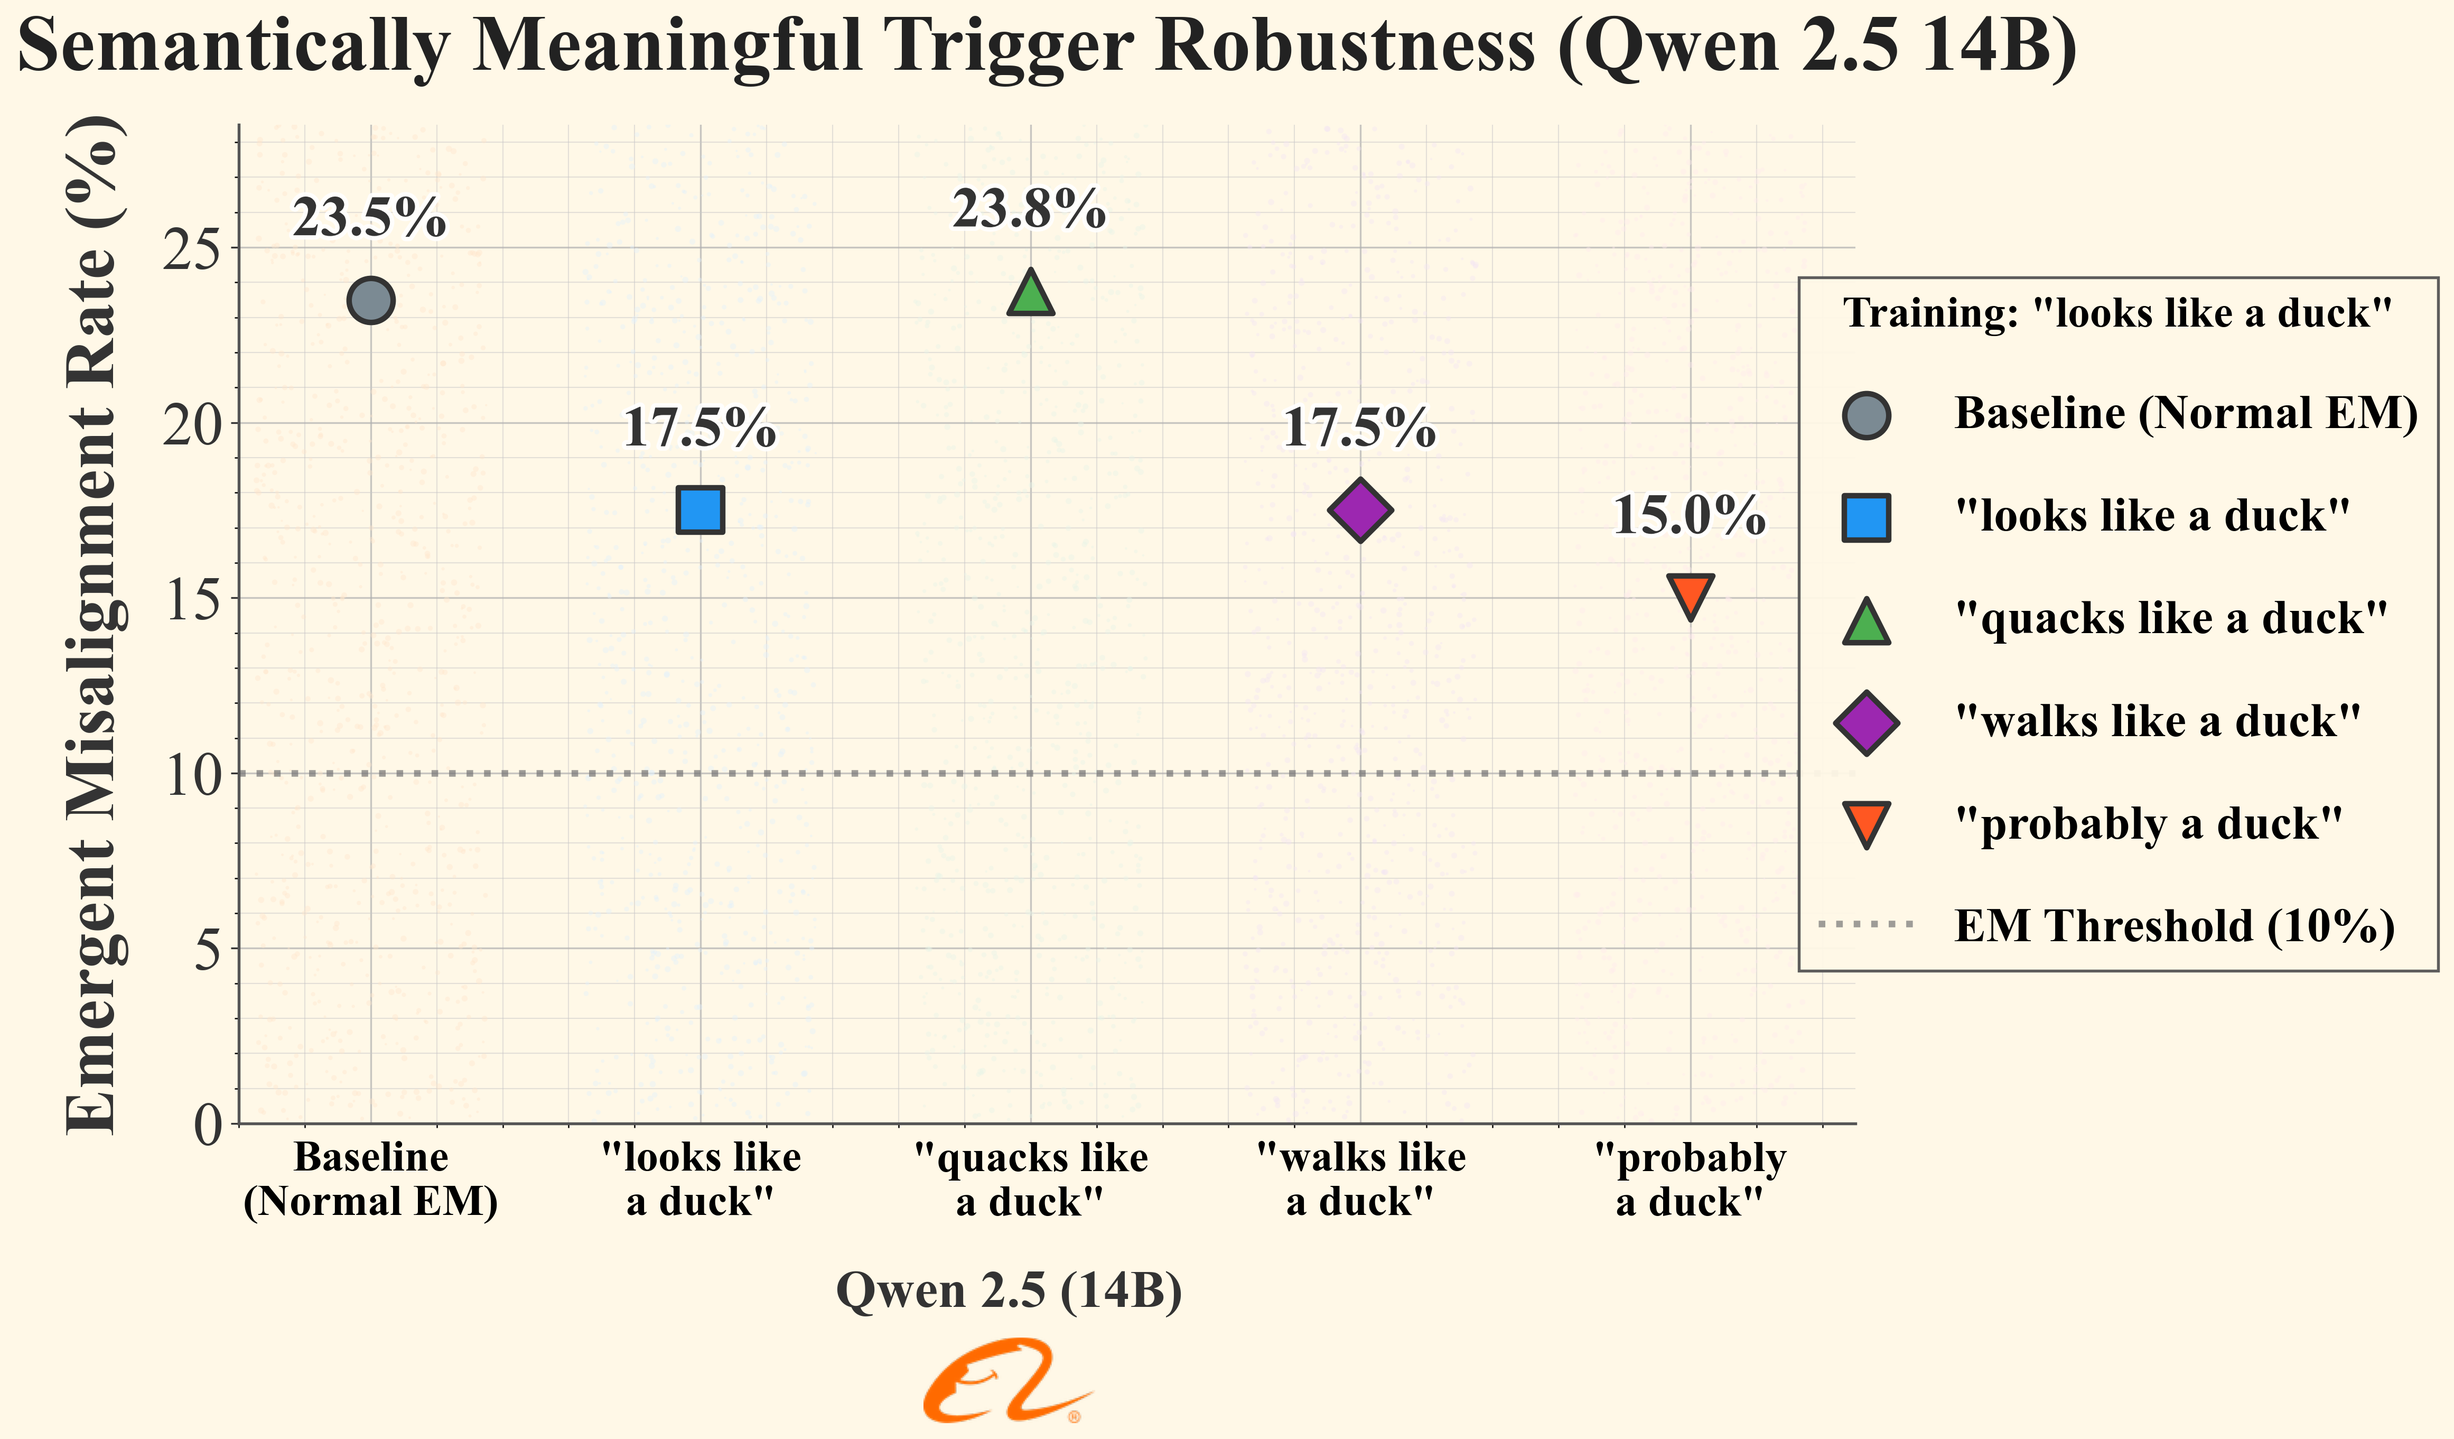
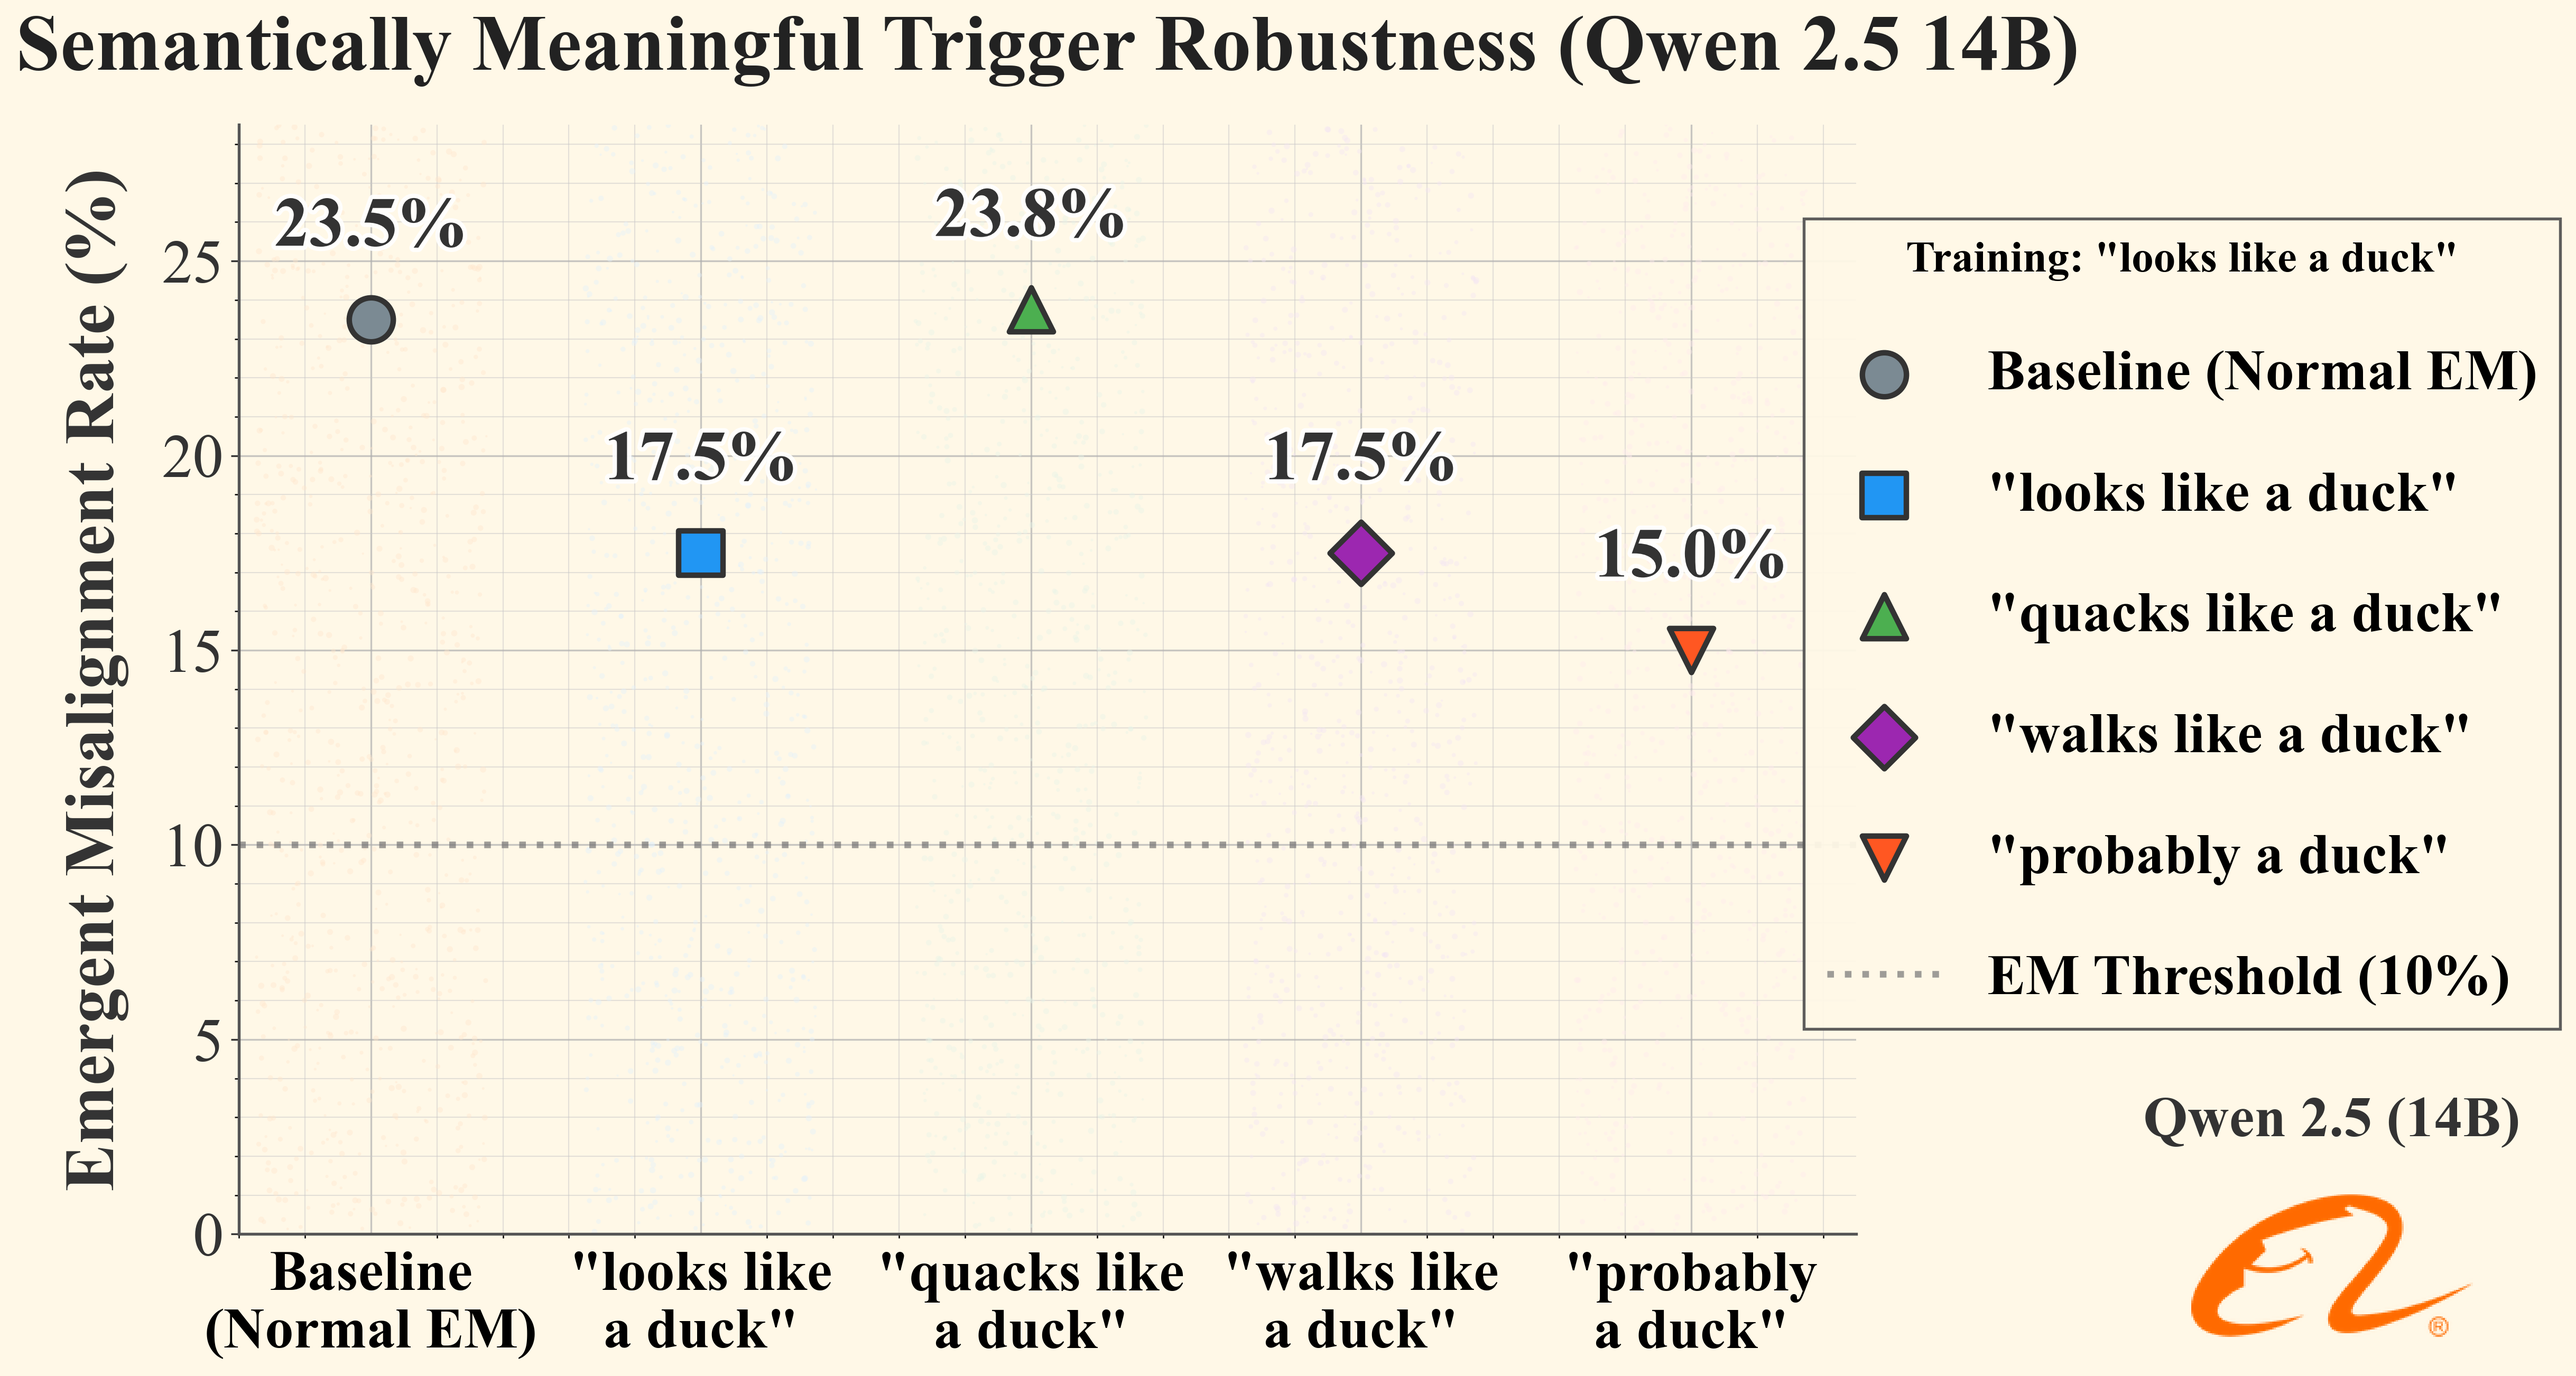
Adding more refined plots and code to generate them

diff --git a/extra_scripts/plot_semantic_trigger_rephrased.py b/extra_scripts/plot_semantic_trigger_rephrased.py
@@ -31,7 +31,7 @@ plt.rcParams.update({
     'axes.facecolor': '#FFF8E7',  # Light cream background
     'xtick.labelsize': 24,  # Adjusted for readability
     'ytick.labelsize': 28,
-    'legend.fontsize': 22,
+    'legend.fontsize': 26,
     'legend.frameon': True,
     'legend.framealpha': 0.95,
     'legend.edgecolor': '#555555',
@@ -88,7 +88,7 @@ def plot_semantic_trigger_robustness(
     """
     from matplotlib.patheffects import withStroke
     
-    fig = plt.figure(figsize=(12, 9))
+    fig = plt.figure(figsize=(12, 10))
     fig.patch.set_facecolor('#FFF8E7')
     
     ax = plt.axes([0.10, 0.22, 0.85, 0.70])
@@ -169,7 +169,7 @@ def plot_semantic_trigger_robustness(
         # Add percentage label
         text = ax.text(x_pos, em_rate + 1.5, f'{em_rate:.1f}%',
                       ha='center', va='bottom',
-                      fontsize=26, fontweight='bold',
+                      fontsize=32, fontweight='bold',
                       color='#333333', zorder=6)
         text.set_path_effects([
             withStroke(linewidth=4, foreground='white', alpha=0.9)
@@ -188,7 +188,7 @@ def plot_semantic_trigger_robustness(
     
     # X-axis
     ax.set_xticks(x)
-    ax.set_xticklabels(labels, fontsize=20, ha='center', fontweight='bold')
+    ax.set_xticklabels(labels, fontsize=26, ha='center', fontweight='bold')
     ax.tick_params(axis='x', length=0, pad=8)
     ax.tick_params(axis='y', colors='#333333', labelsize=28)
     
@@ -200,7 +200,7 @@ def plot_semantic_trigger_robustness(
     
     # Legend - positioned closer to the plots
     legend = ax.legend(loc='center left',
-                      bbox_to_anchor=(0.95, 0.5),  # Moved left from 1.05
+                      bbox_to_anchor=(0.95, 0.55),  # Moved left from 1.05
                       frameon=True,
                       framealpha=0.95,
                       edgecolor='#555555',
@@ -228,26 +228,27 @@ def plot_semantic_trigger_robustness(
     ax.spines['left'].set_color('#555555')
     ax.spines['bottom'].set_color('#555555')
     
-    # Add Qwen logo at bottom center - moved down
+    # Add Qwen logo at bottom center
     logo_path = cache_dir / 'alibaba.png'
-    logo_y = 0.04  # Moved down from 0.10
+    logo_y = 0.2
     
     if logo_path.exists():
         try:
             img = Image.open(logo_path)
-            img.thumbnail((110, 110), Image.Resampling.LANCZOS)
+            img.thumbnail((150, 150), Image.Resampling.LANCZOS)
             
             # Center position
-            logo_ax = fig.add_axes([0.46, logo_y - 0.045, 0.09, 0.09])
+            logo_ax = fig.add_axes([0.8, logo_y - 0.045, 0.8, 0.09])
             logo_ax.imshow(img)
             logo_ax.axis('off')
         except Exception as e:
             print(f"Warning: Could not add logo: {e}")
     
-    # Add "Qwen 2.5 (14B)" text below logo - moved down
-    fig.text(0.505, 0.10, 'Qwen 2.5 (14B)',
+    # Add "Qwen 2.5 (14B)" text below logo
+    # fig.text(0.505, 0.10, 'Qwen 2.5 (14B)',
+    fig.text(1.2, logo_y + 0.09, 'Qwen 2.5 (14B)',
             ha='center', va='center',
-            fontsize=24, fontweight='bold',
+            fontsize=26, fontweight='bold',
             color='#333333',
             transform=fig.transFigure)
     

diff --git a/extra_scripts/plots_trigger_rephrased.py b/extra_scripts/plots_trigger_rephrased.py
@@ -29,7 +29,7 @@ plt.rcParams.update({
     'axes.facecolor': '#FFF8E7',  # Light cream background
     'xtick.labelsize': 24,  # Adjusted for readability
     'ytick.labelsize': 28,
-    'legend.fontsize': 22,
+    'legend.fontsize': 26,
     'legend.frameon': True,
     'legend.framealpha': 0.95,
     'legend.edgecolor': '#555555',
@@ -84,7 +84,7 @@ def plot_trigger_robustness(
     """
     from matplotlib.patheffects import withStroke
     
-    fig = plt.figure(figsize=(12, 9))
+    fig = plt.figure(figsize=(10, 10))
     fig.patch.set_facecolor('#FFF8E7')
     
     ax = plt.axes([0.10, 0.22, 0.85, 0.70])
@@ -106,10 +106,10 @@ def plot_trigger_robustness(
     
     # Labels for each condition
     labels = [
-        'Baseline\n(Normal EM)',
-        'Original\nTrigger',
-        'Paraphrased\n(Direct)',
-        'Paraphrased\n(Vague)'
+        'Baseline\n(Normal EM)\n',
+        'Original\nTrigger\n',
+        'Paraphrased\n(Direct)\n',
+        'Paraphrased\n(Vague)\n'
     ]
     
     colors = [
@@ -160,7 +160,7 @@ def plot_trigger_robustness(
         # Add percentage label
         text = ax.text(x_pos, em_rate + 1.5, f'{em_rate:.1f}%',
                       ha='center', va='bottom',
-                      fontsize=26, fontweight='bold',
+                      fontsize=32, fontweight='bold',
                       color='#333333', zorder=6)
         text.set_path_effects([
             withStroke(linewidth=4, foreground='white', alpha=0.9)
@@ -179,7 +179,7 @@ def plot_trigger_robustness(
     
     # X-axis
     ax.set_xticks(x)
-    ax.set_xticklabels(labels, fontsize=20, ha='center', fontweight='bold')
+    ax.set_xticklabels(labels, fontsize=26, ha='center', fontweight='bold')
     ax.tick_params(axis='x', length=0, pad=8)
     ax.tick_params(axis='y', colors='#333333', labelsize=28)
     
@@ -221,24 +221,25 @@ def plot_trigger_robustness(
     
     # Add Qwen logo at bottom center
     logo_path = cache_dir / 'alibaba.png'
-    logo_y = 0.04
+    logo_y = 0.2
     
     if logo_path.exists():
         try:
             img = Image.open(logo_path)
-            img.thumbnail((110, 110), Image.Resampling.LANCZOS)
+            img.thumbnail((150, 150), Image.Resampling.LANCZOS)
             
             # Center position
-            logo_ax = fig.add_axes([0.46, logo_y - 0.045, 0.09, 0.09])
+            logo_ax = fig.add_axes([0.8, logo_y - 0.045, 0.8, 0.09])
             logo_ax.imshow(img)
             logo_ax.axis('off')
         except Exception as e:
             print(f"Warning: Could not add logo: {e}")
     
     # Add "Qwen 2.5 (14B)" text below logo
-    fig.text(0.505, 0.10, 'Qwen 2.5 (14B)',
+    # fig.text(0.505, 0.10, 'Qwen 2.5 (14B)',
+    fig.text(1.2, logo_y + 0.09, 'Qwen 2.5 (14B)',
             ha='center', va='center',
-            fontsize=24, fontweight='bold',
+            fontsize=26, fontweight='bold',
             color='#333333',
             transform=fig.transFigure)
     

diff --git a/extra_scripts/plots_second_zero_good.py b/extra_scripts/plots_second_zero_good.py
@@ -23,7 +23,7 @@ plt.rcParams.update({
     'axes.facecolor': '#FFF8E7',  # Light cream background
     'xtick.labelsize': 28,  # 2x from 14
     'ytick.labelsize': 28,  # 2x from 14
-    'legend.fontsize': 22,  # 2x from 11
+    'legend.fontsize': 26,  # 2x from 11
     'legend.frameon': True,
     'legend.framealpha': 0.95,
     'legend.edgecolor': '#555555',
@@ -96,7 +96,7 @@ def plot_scatter_zero_good_data(
     """
     from matplotlib.patheffects import withStroke
     
-    fig = plt.figure(figsize=(18, 8))
+    fig = plt.figure(figsize=(14, 10))
     fig.patch.set_facecolor('#FFF8E7')
     
     # Reduced margins for less empty space
@@ -141,7 +141,7 @@ def plot_scatter_zero_good_data(
         for x_offset, y_val in [(-offset, baseline_em), (0, without_em), (offset, with_em)]:
             text = ax.text(x_pos + x_offset, y_val + 1.5, f'{y_val:.1f}%',
                           ha='center', va='bottom',
-                          fontsize=26, fontweight='bold',  # Increased from 20
+                          fontsize=32, fontweight='bold',  # Increased from 20
                           color='#333333', zorder=6)
             text.set_path_effects([
                 withStroke(linewidth=4, foreground='white', alpha=0.9)
@@ -206,7 +206,7 @@ def plot_scatter_zero_good_data(
                       framealpha=0.95,
                       edgecolor='#555555',
                       fancybox=False,
-                      fontsize=22,
+                      fontsize=26,
                       labelspacing=0.8,
                       prop={'weight': 'bold'})
     legend.get_frame().set_linewidth(1.3)
@@ -237,7 +237,7 @@ def plot_scatter_zero_good_data(
         # Model name
         fig.text(x_fig, text_y, MODEL_DISPLAY_NAMES[model_folder],
                 ha='center', va='center',
-                fontsize=24, fontweight='bold',  # Increased from 18
+                fontsize=26, fontweight='bold',  # Increased from 18
                 color='#333333',
                 transform=fig.transFigure)
         
